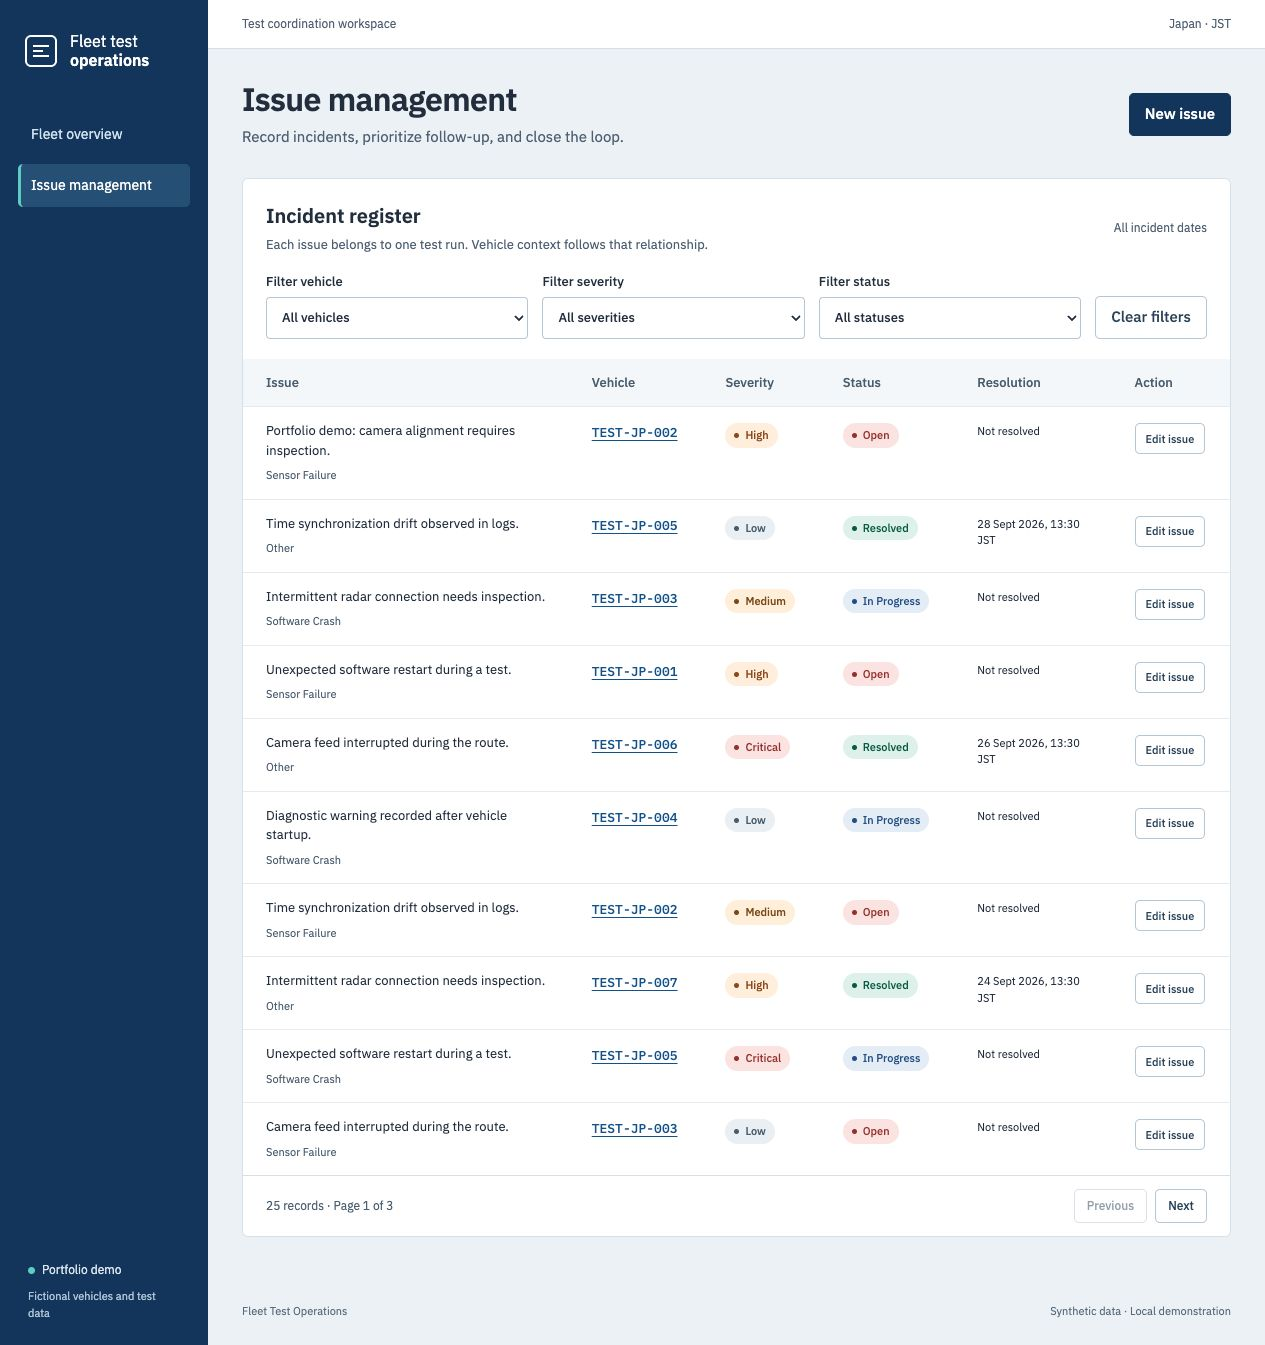
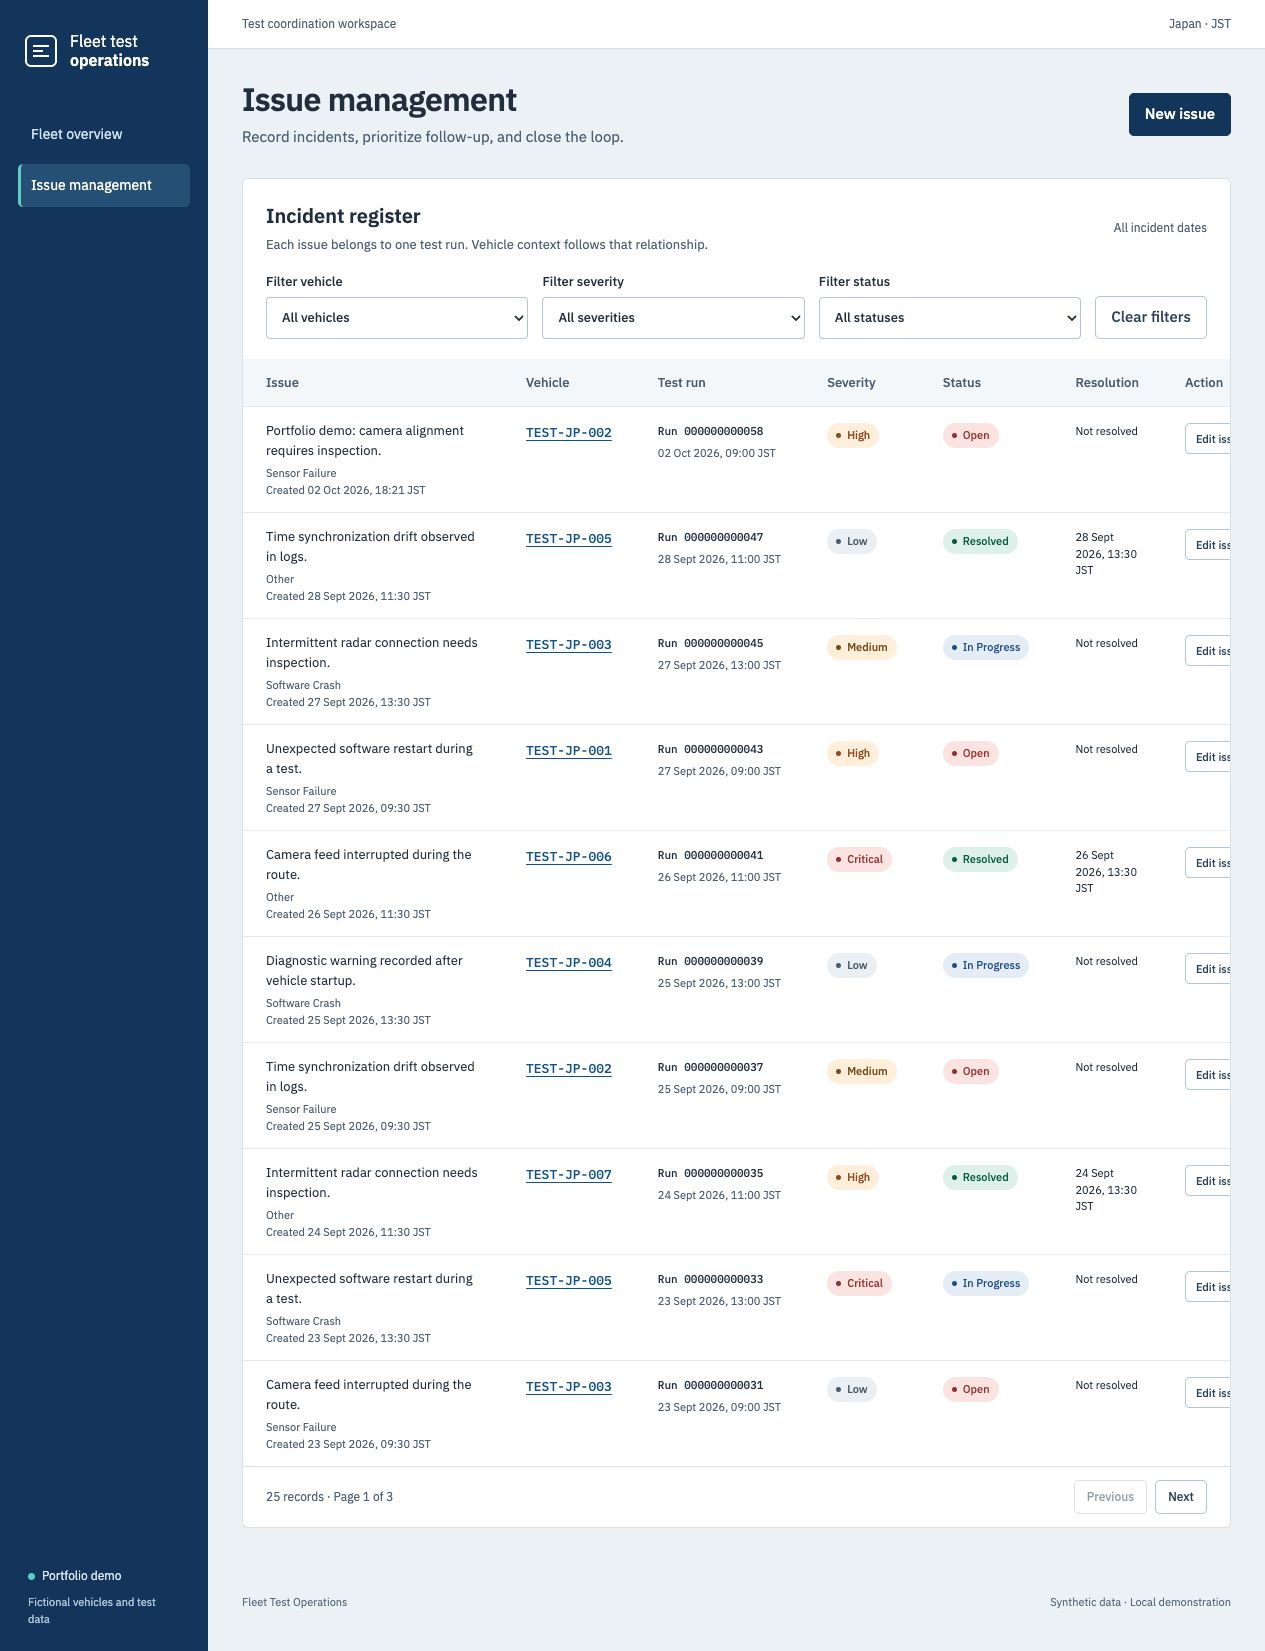
fix: preserve database recovery and complete incident context

diff --git a/apps/web/src/features/issues/IssuesPage.tsx b/apps/web/src/features/issues/IssuesPage.tsx
@@ -2,12 +2,21 @@ import { useRef, useState } from 'react';
 import { Link, useSearchParams } from 'react-router-dom';
 import { jstToday, type Issue, type Vehicle, type Page } from '@fleet/contracts';
 import { useApi } from '../../lib/use-api';
+import { apiRequest } from '../../lib/api';
 import { queryString, formatJst, titleCase } from '../../lib/format';
 import { IssueForm } from './IssueForm';
 import { IssueFilters } from './IssueFilters';
 import { StatusBadge } from '../../components/StatusBadge';
 import { StatePanel } from '../../components/StatePanel';
 import { Pagination } from '../../components/Pagination';
+async function loadVehicleOptions(path: string, options?: RequestInit): Promise<Vehicle[]> {
+  const vehicles: Vehicle[] = [];
+  for (let page = 1; ; page++) {
+    const result = await apiRequest<Page<Vehicle>>(path + '&page=' + page, options);
+    vehicles.push(...result.items);
+    if (page * result.pageSize >= result.total) return vehicles;
+  }
+}
 export function IssuesPage() {
   const [params, setParams] = useSearchParams();
   const [editing, setEditing] = useState<Issue | 'create' | null>(null);
@@ -23,7 +32,10 @@ export function IssuesPage() {
   const issues = useApi<Page<Issue>>(
     '/api/issues?' + queryString({ ...values, testRunId: runId, page, pageSize: 10 }),
   );
-  const vehicles = useApi<Page<Vehicle>>('/api/vehicles?pageSize=100');
+  const vehicles = useApi<Vehicle[]>(
+    '/api/vehicles?pageSize=100&sort=licensePlate',
+    loadVehicleOptions,
+  );
   function filter(key: string, value: string) {
     setParams((previous) => {
       const next = key === 'clear' ? new URLSearchParams() : new URLSearchParams(previous);
@@ -92,7 +104,12 @@ export function IssuesPage() {
             <StatePanel error={vehicles.error} retry={vehicles.reload} />
           </div>
         )}
-        <IssueFilters values={values} vehicles={vehicles.data?.items ?? []} onChange={filter} />
+        <IssueFilters
+          values={values}
+          vehicles={vehicles.data ?? []}
+          vehicleOptionsUnavailable={vehicles.loading || Boolean(vehicles.error)}
+          onChange={filter}
+        />
         {runId && (
           <div className="run-filter">
             <span>Filtered to one test run</span>
@@ -113,6 +130,7 @@ export function IssuesPage() {
                 <tr>
                   <th scope="col">Issue</th>
                   <th scope="col">Vehicle</th>
+                  <th scope="col">Test run</th>
                   <th scope="col">Severity</th>
                   <th scope="col">Status</th>
                   <th scope="col">Resolution</th>
@@ -125,6 +143,7 @@ export function IssuesPage() {
                     <th scope="row" className="issue-description">
                       <p>{issue.description}</p>
                       <small>{titleCase(issue.issueType)}</small>
+                      <small>Created {formatJst(issue.createdAt)}</small>
                     </th>
                     <td>
                       <Link
@@ -142,6 +161,10 @@ export function IssuesPage() {
                       >
                         {issue.licensePlate}
                       </Link>
+                    </td>
+                    <td className="run-context">
+                      <span className="equipment-id">Run {issue.testRunId.slice(-12)}</span>
+                      <time dateTime={issue.runStartedAt}>{formatJst(issue.runStartedAt)}</time>
                     </td>
                     <td>
                       <StatusBadge value={issue.severity} />

diff --git a/apps/web/src/features/issues/IssuesPage.test.tsx b/apps/web/src/features/issues/IssuesPage.test.tsx
@@ -22,6 +22,69 @@ const issue: Issue = {
   resolvedAt: '2026-10-01T03:00:00.000Z',
 };
 describe('issue management', () => {
+  it('shows issue creation time and the related run in JST without opening the editor', async () => {
+    vi.spyOn(globalThis, 'fetch').mockImplementation(async (input) =>
+      Response.json({
+        items: String(input).includes('/vehicles') ? [vehicle] : [issue],
+        page: 1,
+        pageSize: 100,
+        total: 1,
+      }),
+    );
+    render(
+      <MemoryRouter>
+        <IssuesPage />
+      </MemoryRouter>,
+    );
+    const row = await screen.findByRole('row', { name: /Unique resolved camera fault/ });
+    expect(within(row).getByText('Created 01 Oct 2026, 11:00 JST')).toBeVisible();
+    expect(within(row).getByText('01 Oct 2026, 09:00 JST')).toBeVisible();
+    expect(within(row).getByText('Run 000000000001')).toBeVisible();
+  });
+  it('allows filtering by a vehicle beyond the first 100 options', async () => {
+    const target = {
+      ...vehicle,
+      id: '10000000-0000-4000-8000-000000000101',
+      licensePlate: 'TEST-101',
+    };
+    const fetch = vi.spyOn(globalThis, 'fetch').mockImplementation(async (input) => {
+      const url = new URL(String(input), 'http://localhost');
+      if (url.pathname === '/api/vehicles') {
+        const page = Number(url.searchParams.get('page') ?? 1);
+        return Response.json({
+          items:
+            page === 1
+              ? Array.from({ length: 100 }, (_, index) => ({
+                  ...vehicle,
+                  id: 'vehicle-' + index,
+                  licensePlate: 'TEST-' + index,
+                }))
+              : [target],
+          page,
+          pageSize: 100,
+          total: 101,
+        });
+      }
+      return Response.json({ items: [], page: 1, pageSize: 10, total: 0 });
+    });
+    render(
+      <MemoryRouter>
+        <IssuesPage />
+      </MemoryRouter>,
+    );
+    await screen.findByRole('option', { name: target.licensePlate });
+    await userEvent.selectOptions(
+      screen.getByRole('combobox', { name: 'Filter vehicle' }),
+      target.id,
+    );
+    await waitFor(() =>
+      expect(
+        fetch.mock.calls.some((call) =>
+          String(call[0]).includes('/api/issues?vehicleId=' + target.id),
+        ),
+      ).toBe(true),
+    );
+  });
   it('initializes issue filters from the URL and keeps a dated vehicle link', async () => {
     const fetch = vi.spyOn(globalThis, 'fetch').mockImplementation(async (input) =>
       Response.json({

diff --git a/apps/api/test/server.test.ts b/apps/api/test/server.test.ts
@@ -1,0 +1,50 @@
+import { spawn } from 'node:child_process';
+import { randomUUID } from 'node:crypto';
+import { once } from 'node:events';
+import { describe, expect, it } from 'vitest';
+import pg from 'pg';
+
+describe('server database recovery', () => {
+  it('stays running after an idle connection fails and serves a later request', async () => {
+    const applicationName = 'fleet_recovery_' + randomUUID();
+    const connection = new URL(process.env.DATABASE_URL!);
+    connection.searchParams.set('application_name', applicationName);
+    const admin = new pg.Pool({ connectionString: process.env.DATABASE_URL, max: 1 });
+    const child = spawn(process.execPath, ['--import', 'tsx', 'apps/api/src/server.ts'], {
+      env: { ...process.env, DATABASE_URL: connection.href, PORT: '3005', HOST: '127.0.0.1' },
+      stdio: ['ignore', 'pipe', 'pipe'],
+    });
+    let output = '';
+    child.stdout.on('data', (data) => (output += String(data)));
+    child.stderr.on('data', (data) => (output += String(data)));
+    const health = () =>
+      fetch('http://127.0.0.1:3005/api/health')
+        .then((response) => response.status)
+        .catch(() => 0);
+    try {
+      await expect.poll(health, { timeout: 5000 }).toBe(200);
+      const idle = await admin.query(
+        "SELECT pid FROM pg_stat_activity WHERE application_name=$1 AND state='idle'",
+        [applicationName],
+      );
+      expect(idle.rows).toHaveLength(1);
+      // Terminate only this child server's idle session; do not restart the shared database.
+      expect(
+        (await admin.query('SELECT pg_terminate_backend($1) AS terminated', [idle.rows[0].pid]))
+          .rows[0].terminated,
+      ).toBe(true);
+      await expect
+        .poll(() => output)
+        .toContain('terminating connection due to administrator command');
+      await expect.poll(health, { timeout: 2000 }).toBe(200);
+      expect(child.exitCode).toBeNull();
+    } finally {
+      if (child.exitCode === null && child.signalCode === null) {
+        const exited = once(child, 'exit');
+        child.kill('SIGTERM');
+        await exited;
+      }
+      await admin.end();
+    }
+  });
+});

diff --git a/apps/web/src/lib/use-api.ts b/apps/web/src/lib/use-api.ts
@@ -1,6 +1,9 @@
 import { useEffect, useState, useCallback } from 'react';
 import { apiRequest, ApiClientError } from './api';
-export function useApi<T>(path: string): {
+export function useApi<T>(
+  path: string,
+  load: (path: string, options?: RequestInit) => Promise<T> = apiRequest,
+): {
   data: T | null;
   loading: boolean;
   error: ApiClientError | null;
@@ -16,7 +19,7 @@ export function useApi<T>(path: string): {
     setLoading(true);
     setData(null);
     setError(null);
-    apiRequest<T>(path, { signal: controller.signal })
+    load(path, { signal: controller.signal })
       .then((value) => {
         if (active) setData(value);
       })
@@ -39,6 +42,6 @@ export function useApi<T>(path: string): {
       active = false;
       controller.abort();
     };
-  }, [path, reloadKey]);
+  }, [path, reloadKey, load]);
   return { data, loading, error, reload: useCallback(() => setReloadKey((key) => key + 1), []) };
 }

diff --git a/apps/web/src/features/issues/IssueFilters.tsx b/apps/web/src/features/issues/IssueFilters.tsx
@@ -3,10 +3,12 @@ import { titleCase } from '../../lib/format';
 export function IssueFilters({
   values,
   vehicles,
+  vehicleOptionsUnavailable,
   onChange,
 }: {
   values: { vehicleId: string; severity: string; status: string };
   vehicles: Vehicle[];
+  vehicleOptionsUnavailable: boolean;
   onChange: (key: string, value: string) => void;
 }) {
   return (
@@ -15,6 +17,7 @@ export function IssueFilters({
         Filter vehicle
         <select
           value={values.vehicleId}
+          disabled={vehicleOptionsUnavailable}
           onChange={(event) => onChange('vehicleId', event.target.value)}
         >
           <option value="">All vehicles</option>

diff --git a/apps/web/src/styles.css b/apps/web/src/styles.css
@@ -916,6 +916,7 @@ tbody tr:hover {
   line-height: 1.5;
 }
 .issue-description small {
+  display: block;
   font-size: 11px;
   color: var(--muted);
   font-weight: 400;
@@ -928,6 +929,14 @@ tbody tr:hover {
   font-size: 11px;
   max-width: 155px;
   white-space: normal;
+}
+.run-context {
+  font-size: 11px;
+}
+.run-context time {
+  display: block;
+  margin-top: 5px;
+  color: var(--muted);
 }
 .table-action {
   min-height: 31px;

diff --git a/apps/api/src/server.ts b/apps/api/src/server.ts
@@ -12,6 +12,9 @@ const pool = new pg.Pool({
   statement_timeout: 10000,
   max: 10,
 });
+pool.on('error', (error) => {
+  console.error('An idle database connection failed; later requests will reconnect.', error);
+});
 const port = Number(process.env.PORT ?? 3001);
 const host = process.env.HOST ?? '127.0.0.1';
 const server = createApp(pool).listen(port, host, () =>

diff --git a/docs/verification.md b/docs/verification.md
@@ -10,7 +10,7 @@ Verified locally on 2026-10-02 with Node 24.21.0 and PostgreSQL 17.5. This recor
 | `npm run format:check`    | Passed                                                                                                                  |
 | `npm run typecheck`       | Passed across scripts, contracts, API, web, and browser tests                                                           |
 | `npm run lint`            | Passed with no warnings                                                                                                 |
-| `npm test`                | 91 passed: 20 contracts, 22 database, 30 API, 19 web behavior tests                                                     |
+| `npm test`                | 94 passed: 20 contracts, 22 database, 31 API/server, 21 web behavior tests                                              |
 | `npm run build`           | Passed; API and web built; web code split into entry and chart chunks                                                   |
 | `npm run test:e2e`        | 3 Chromium workflows passed using a generated database schema                                                           |
 | `npm run test:smoke`      | Compiled index, direct vehicle navigation, readiness, API 404, built asset, missing asset, non-navigation checks passed |
@@ -26,12 +26,36 @@ Verified locally on 2026-10-02 with Node 24.21.0 and PostgreSQL 17.5. This recor
 - A second Chromium case rejects a short description, creates one issue, reloads, and checks exactly one SQL row with that description.
 - Desktop and 390px layouts were inspected. The document does not overflow horizontally; wide tables scroll inside their containers. Creation was opened with the keyboard and native controls remain focusable.
 - An intentional API stop produced a visible error, and retry recovered after the server restarted.
+- A child-server integration test terminates only its own idle PostgreSQL session. The server logs the failure, stays alive, reconnects, and returns readiness 200 on a later request.
+- Incident rows expose creation time and run context in JST; a 101-vehicle fixture verifies filtering by an option on the second API page.
 
 Ordinary migration/seed do not overwrite saved edits. Reset guards were tested in isolated schemas; the active demo database was preserved during clean-setup verification. Browser test schema/context cleanup completed. Screenshots show editable synthetic data and can differ from a newly seeded database.
 
 ## Independent automated review
 
-The final whole-branch review is pending. It will use a fresh reviewer context and be recorded here with findings and any verified fixes. This is not a human team review.
+One fresh-context gpt-6-astra reviewer inspected the complete five-task branch (`c483db5..38447b2`). It reported no Critical findings, three Important findings, and no Minor findings. This is an automated review, not a human team review.
+
+All three Important findings were reproduced by failing behavior tests, then fixed in one pass:
+
+| Finding                                                 | Verified change                                                                                                                                   |
+| ------------------------------------------------------- | ------------------------------------------------------------------------------------------------------------------------------------------------- |
+| Idle database connection failure terminated the API     | A pool error handler logs failures and permits replacement connections; the child-server recovery test failed before the fix and passed afterward |
+| Incident register omitted creation time and related run | Rows display creation time, run start in JST, and a short run reference; the row-content test failed before the fix and passed afterward          |
+| Vehicle filter stopped after the first 100 options      | Options load all API pages before enabling the selector; the 101st-vehicle selection test failed before the fix and passed afterward              |
+
+After the fix pass, all 94 tests, three Chromium workflows, type checking, linting, production build, and compiled-server smoke passed. The final incident register was also inspected in the running compiled application. No second review was dispatched. Deferred minor findings: none.
+
+## Implementation decisions
+
+These are the complete recorded rulings, in decision order, with the cost if a decision proves wrong:
+
+1. Use a manual linked worktree in `/private/tmp` for the nested repository because the app worktree tool targets the parent repository and has no repository-path argument. Cost: the app cannot manage this temporary worktree automatically.
+2. Use the existing **Save status** accessible button name in the browser scenario, matching the earlier binding interface rather than the later plan example. Cost: a button-label and locator rename.
+3. Build shared contracts during installation and before development startup, then watch them with the applications, because runtime workspace imports require generated JavaScript. Cost: an additional short TypeScript build during installation/startup.
+4. Pin transitive esbuild to 0.28.2 because the reported Windows development-server advisory in 0.27.7 remained after the non-force audit fix. Cost: build-tool compatibility; the full build and browser checks passed with this resolution.
+5. Leave actual Docker startup unverified because the daemon is stopped. Native PostgreSQL provides the verified local demo and the README identifies the alternative accurately. Cost: Docker-specific startup problems may remain.
+6. Leave hosted Actions, remote Issues/PRs, and public deployment unexecuted because no remote destination was supplied. Committed configuration, templates, branch history, and local evidence describe the workflow honestly. Cost: hosted environment or repository configuration may need changes.
+7. Leave architecture PNG/PDF downloads unverified because download capture was unavailable. HTML and static SVG render and the README discloses the limitation. Cost: export controls may need repair; static diagrams remain usable.
 
 ## Limits of this evidence
 
